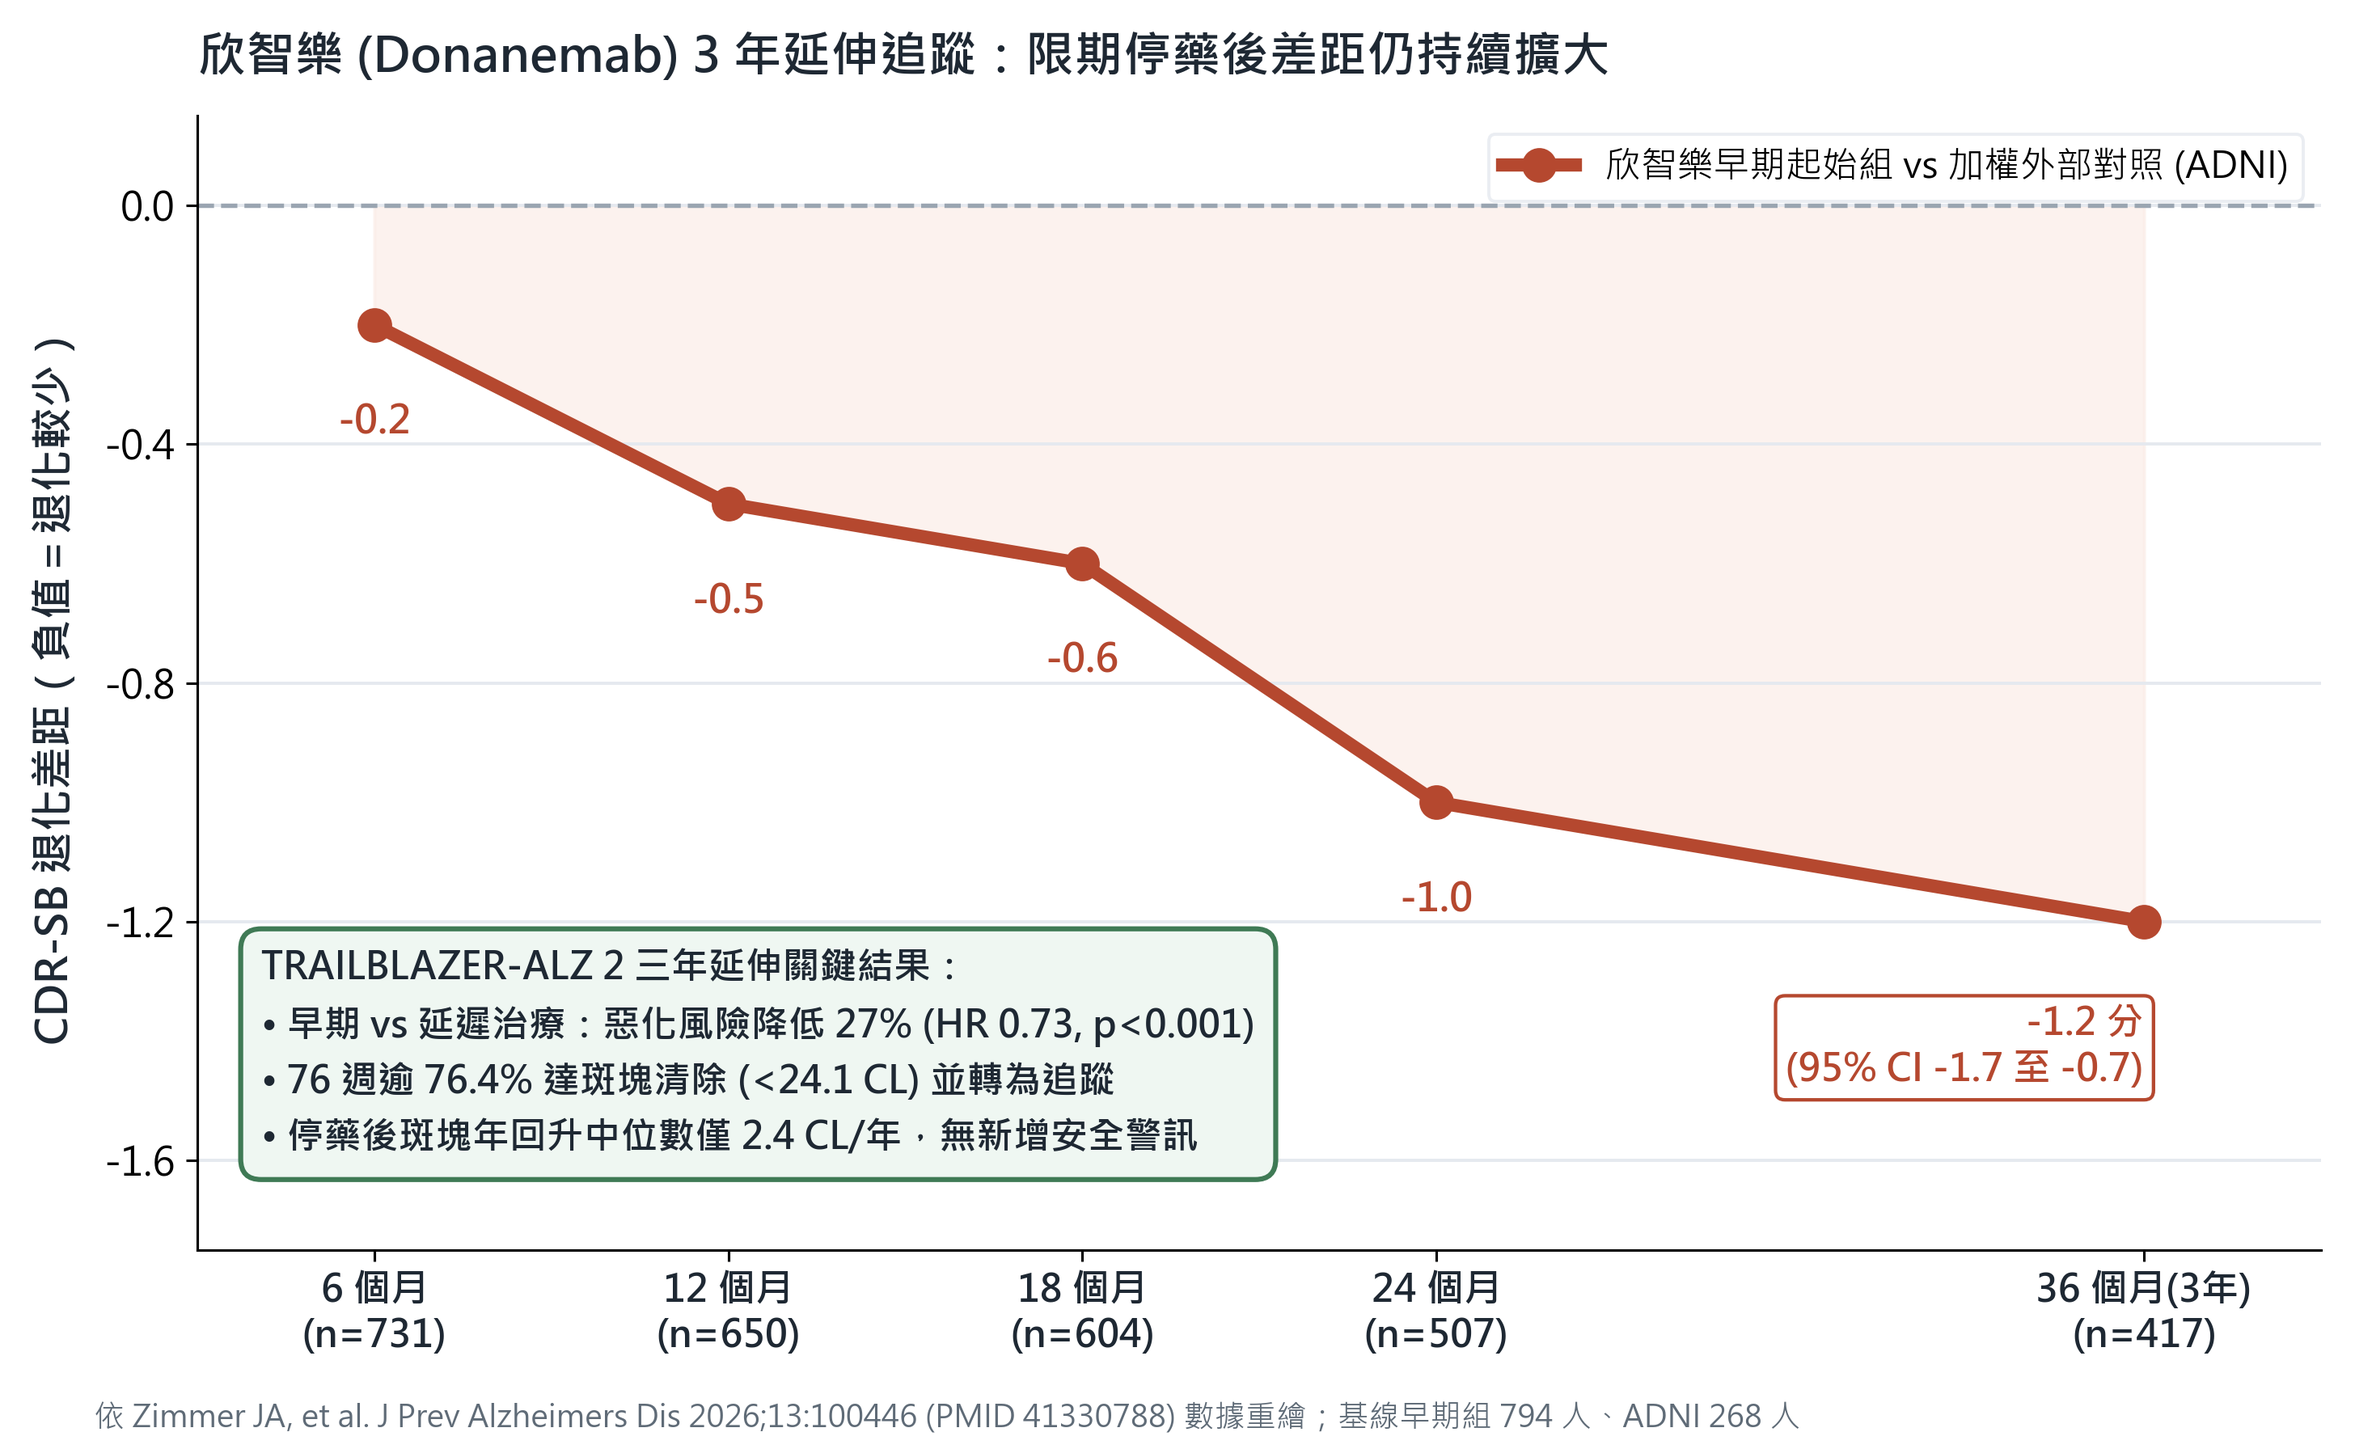
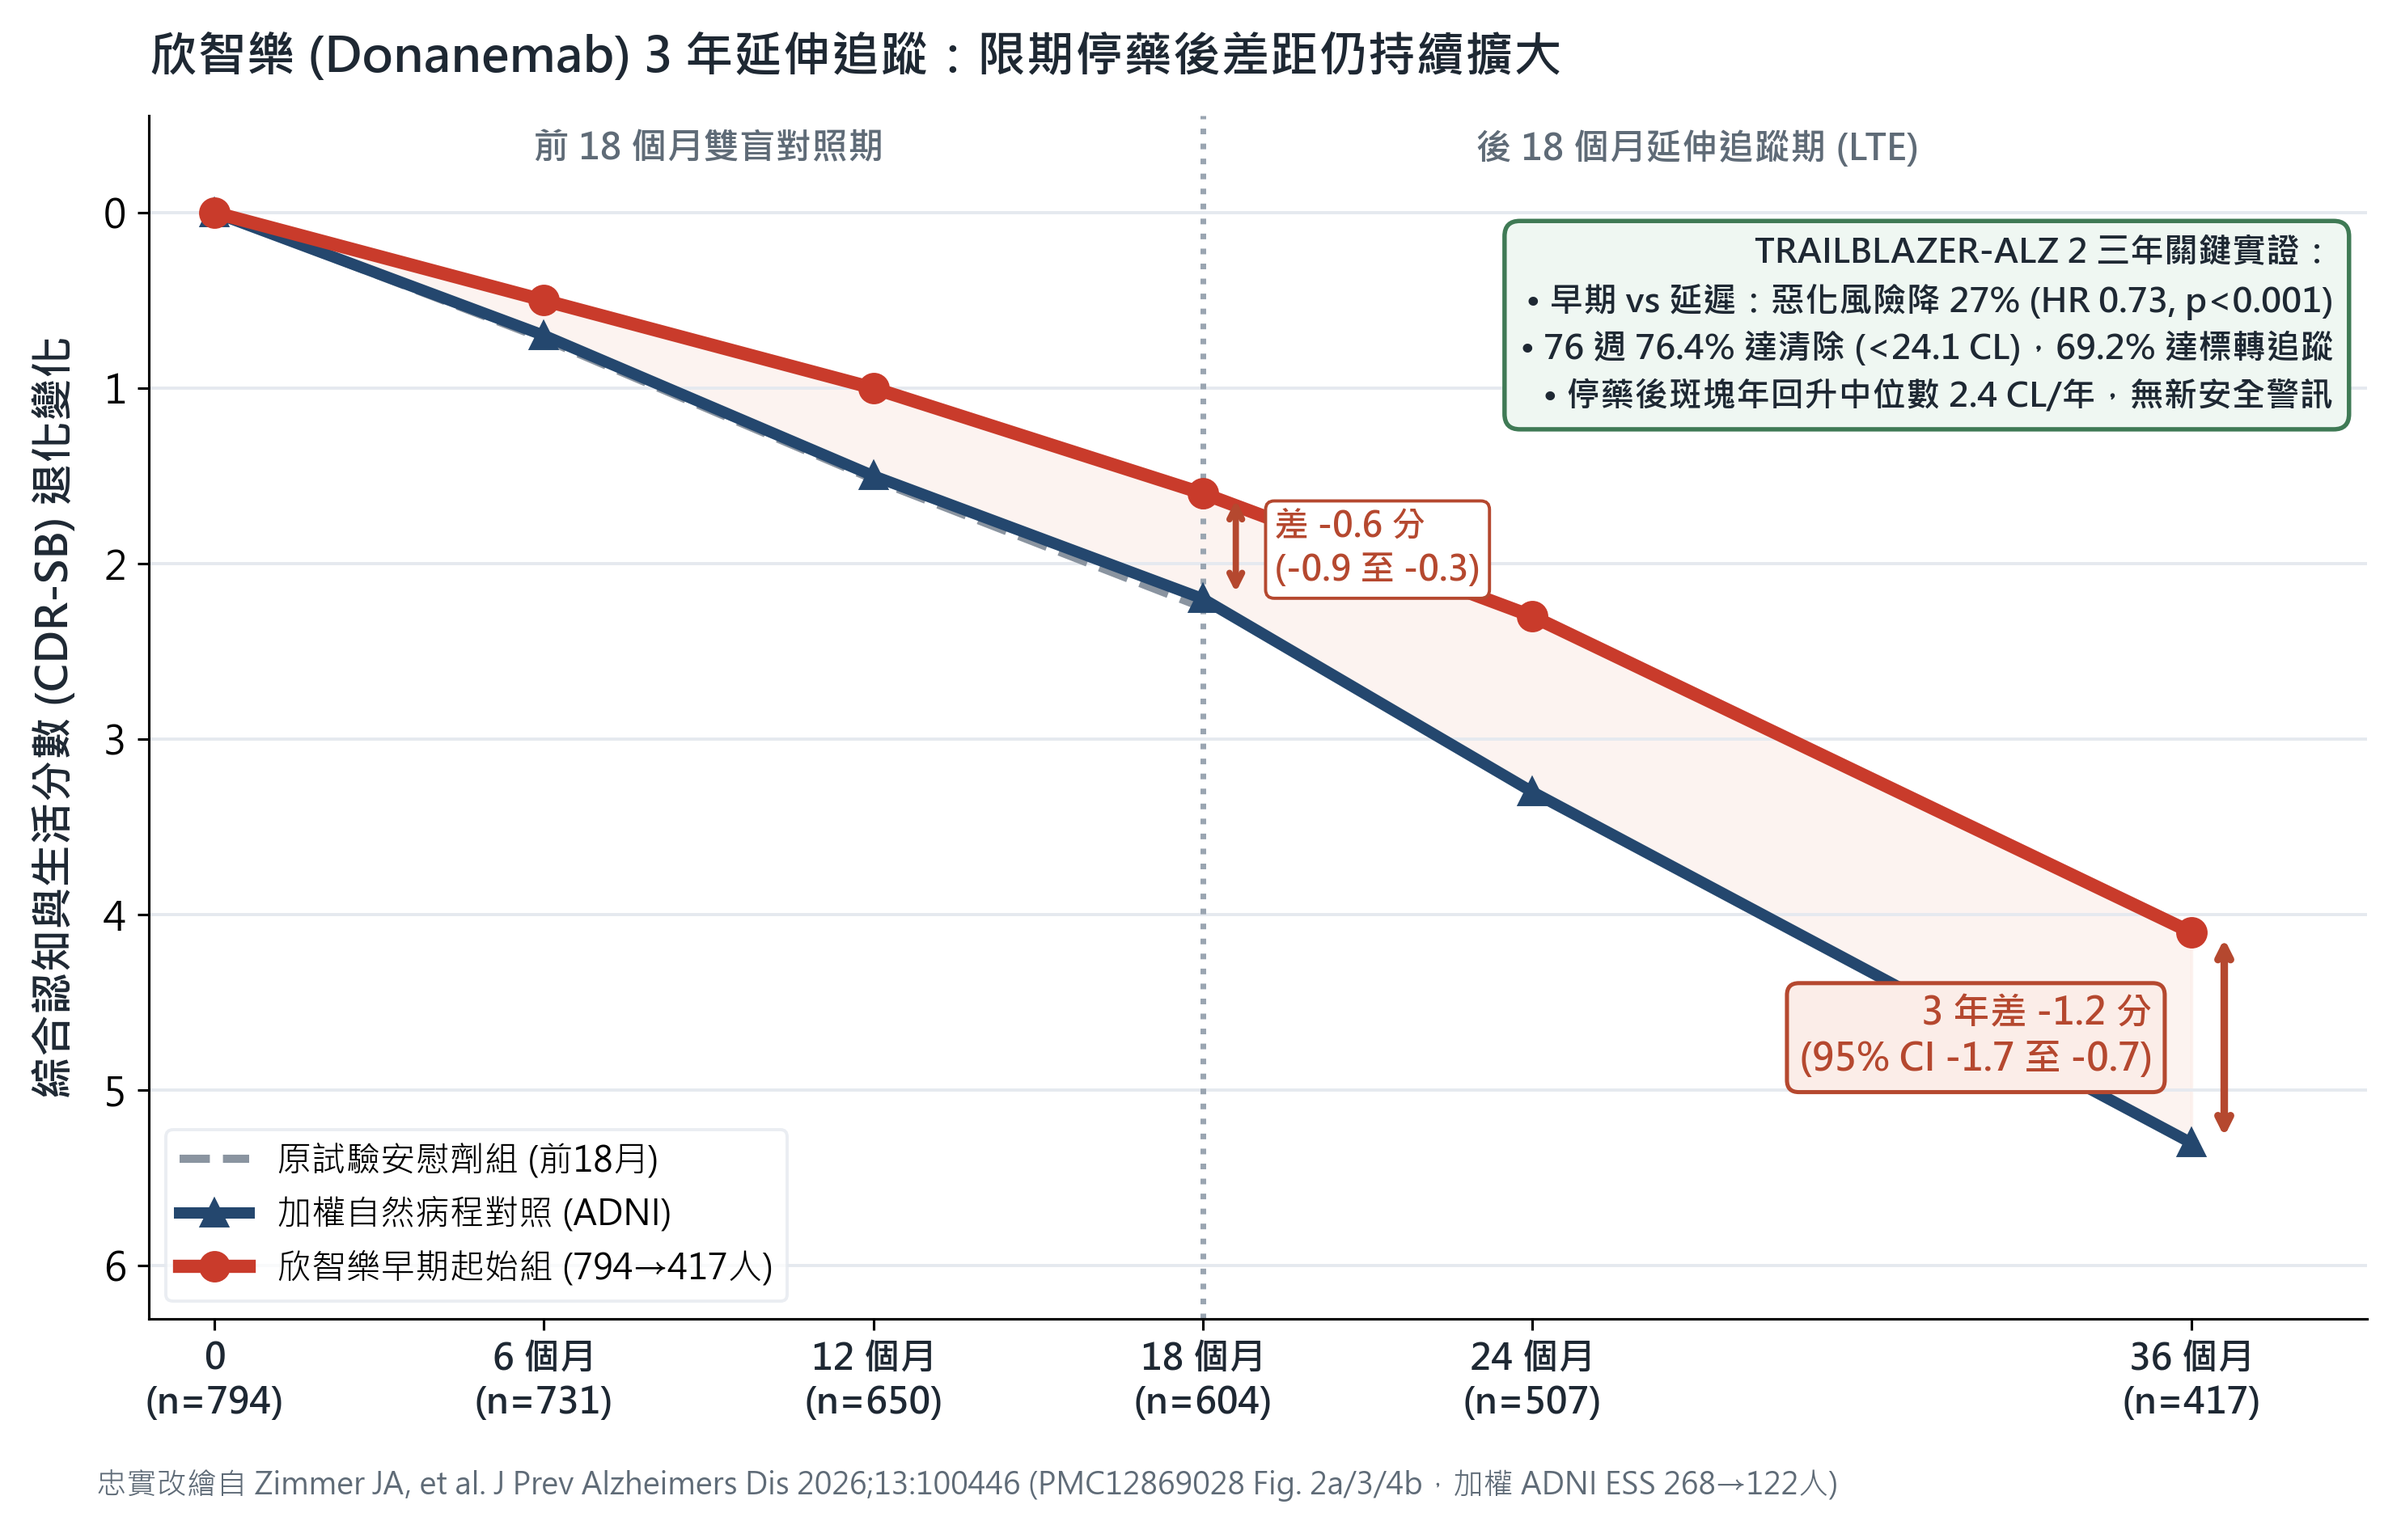
fix(slide11): redraw Donanemab 3y dual-curve chart matching PMC12869028 Fig 2a and distinguish 76.4% clearance vs 69.2% stop-criteria

diff --git a/index.html b/index.html
@@ -426,7 +426,7 @@
         </div>
         <div class="k-card sage" data-s="3" style="padding:18px 22px">
           <h3>逾 76% 達清除，停藥回升慢</h3>
-          <p>76 週時 <strong>76.4%</strong> 達類澱粉清除（&lt;24.1 CL）轉為追蹤，停藥後斑塊年回升中位數僅 <strong>2.4 CL/年</strong>，無新增安全警訊。</p>
+          <p>76 週時 <strong>76.4%</strong> 達類澱粉清除（&lt;24.1 CL），<strong>69.2%</strong> 達停藥標準改為追蹤；停藥後斑塊年回升中位數僅 <strong>2.4 CL/年</strong>，無新增安全警訊。</p>
         </div>
       </div>
     </div>
@@ -834,7 +834,7 @@
       <button class="go sage" id="kgo-auto">開始自動播放</button>
     </div>
   </div>
-  <p class="kb">版本 20261125-6b4e｜自動播放中：空白鍵 暫停／繼續｜← → 上一句／下一句｜S 字幕｜M 配樂｜移動滑鼠叫出控制列，「選單」回到這裡</p>
+  <p class="kb">版本 20261125-32da｜自動播放中：空白鍵 暫停／繼續｜← → 上一句／下一句｜S 字幕｜M 配樂｜移動滑鼠叫出控制列，「選單」回到這裡</p>
 </div></div>
 
 <!-- 控制列 -->
